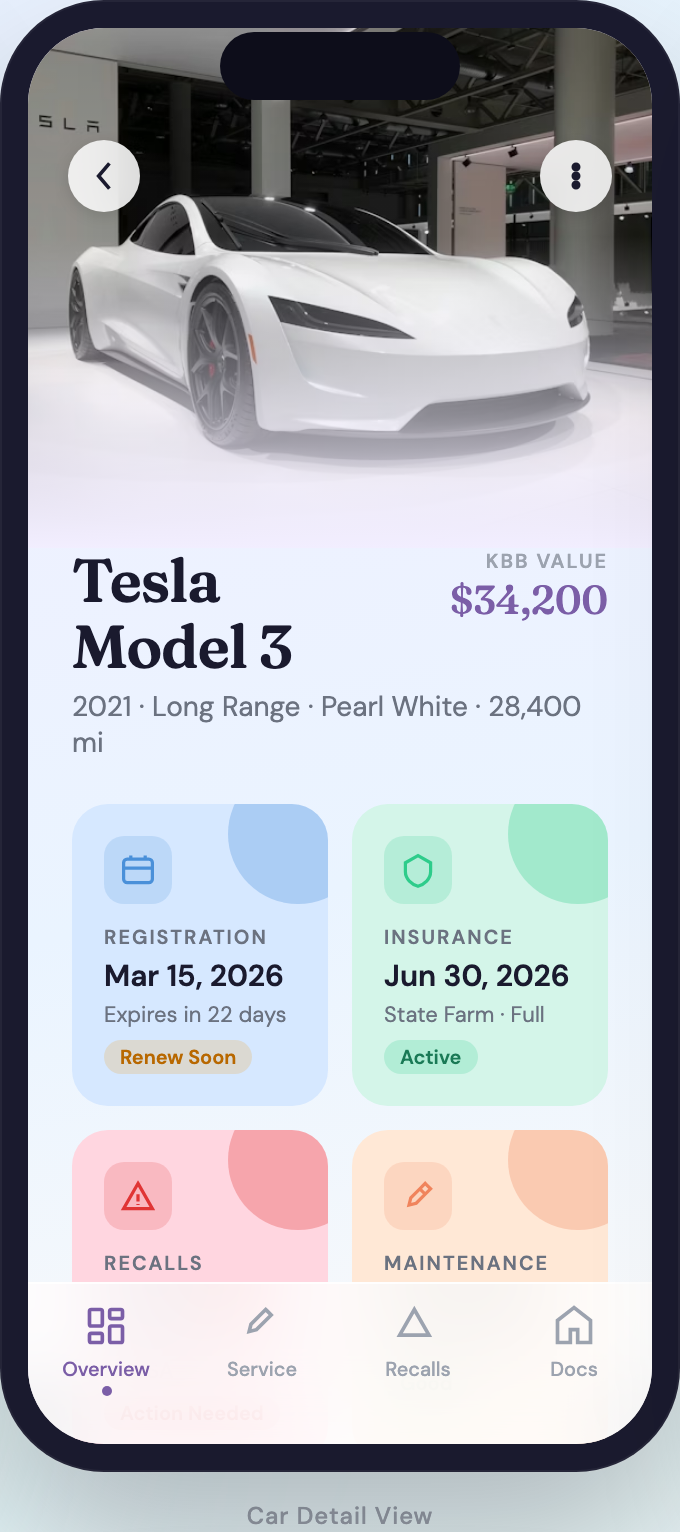
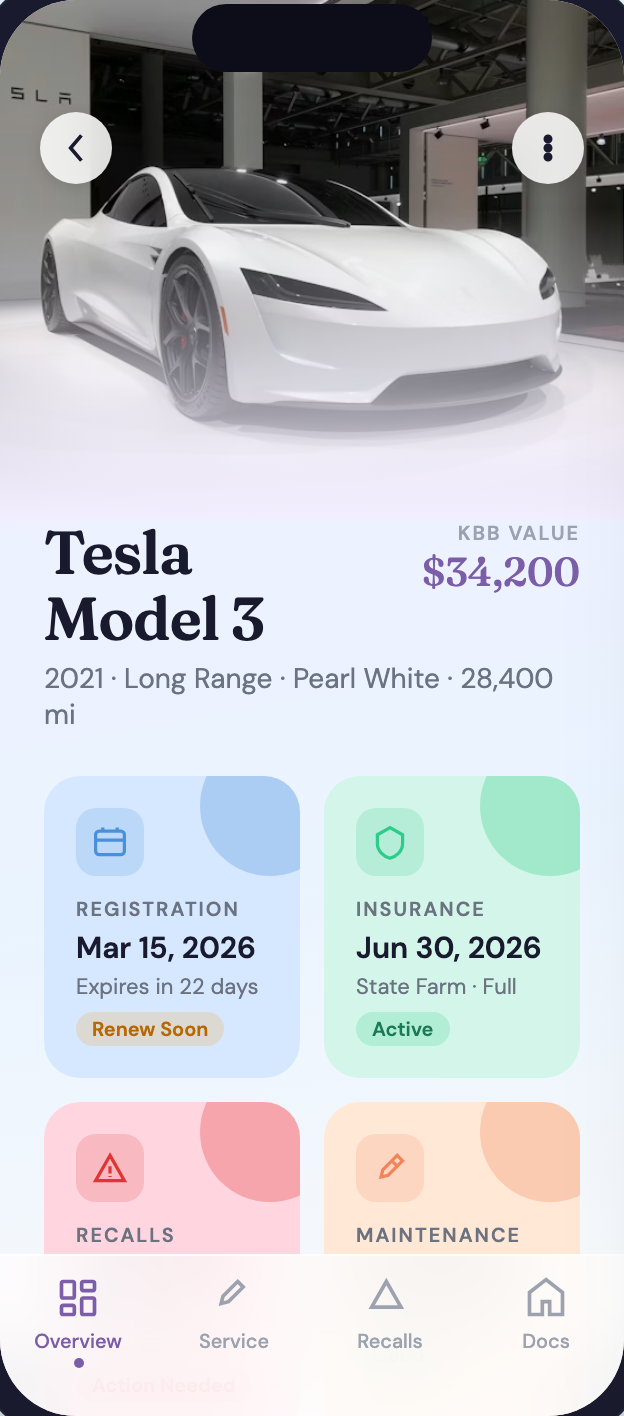
docs: replace screenshots with clean screen-only captures

diff --git a/README.md b/README.md
@@ -51,10 +51,6 @@ Built with SwiftUI and designed around a soft pastel aesthetic with glass-morphi
 
 ## Features
 
-<p align="center">
-  <img src="assets/fleet-features.png" width="800" alt="Fleet Features" />
-</p>
-
 <table>
   <tr>
     <td width="60" align="center">🏎</td>
